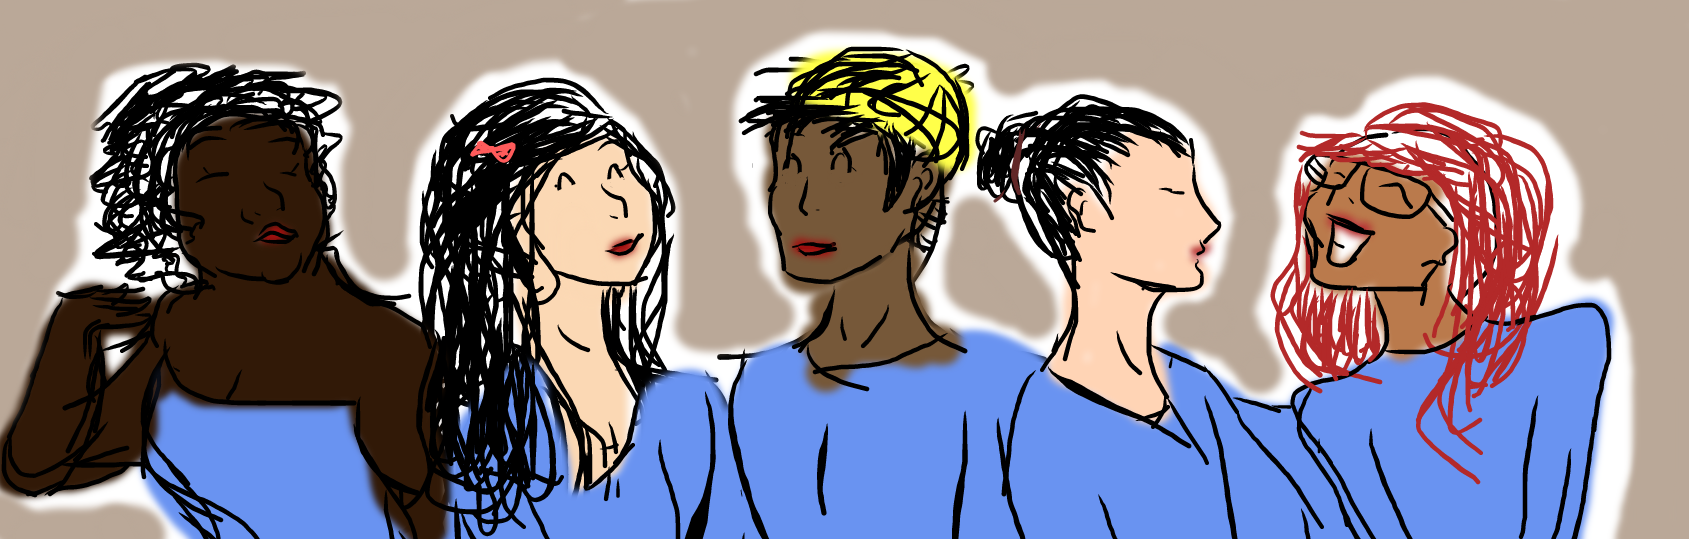
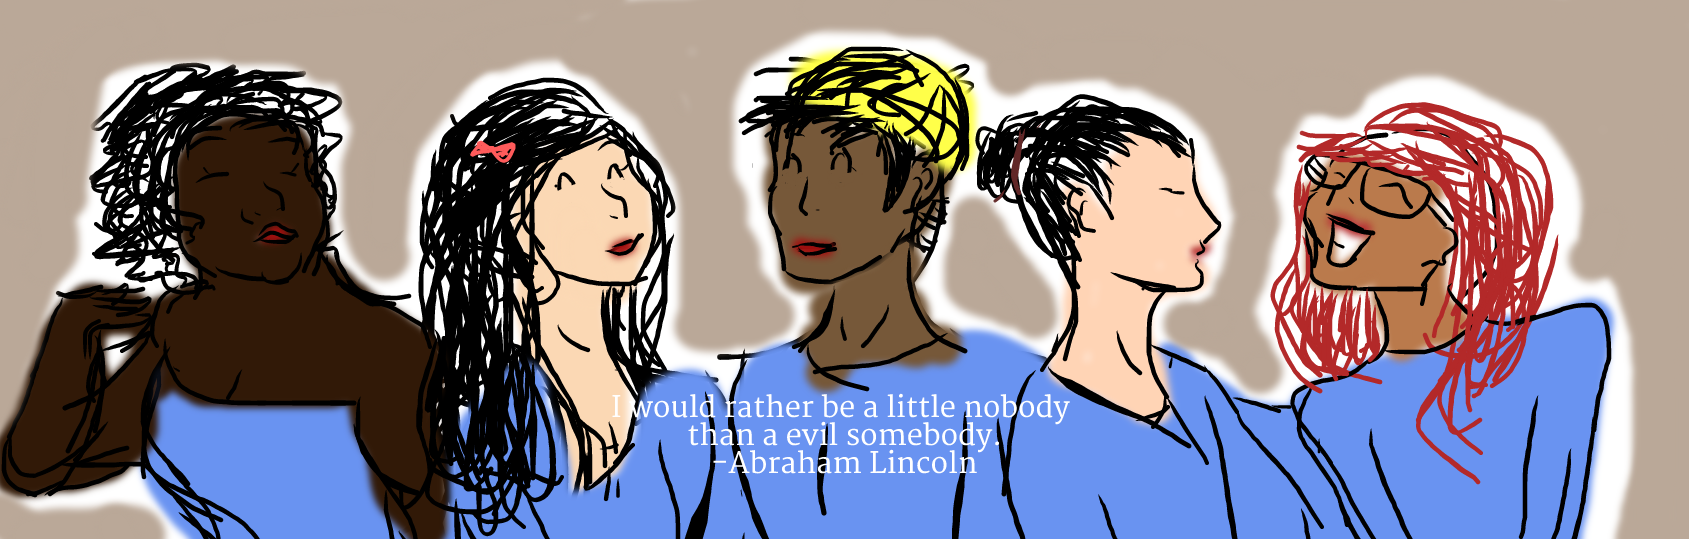
commiting no words

Changed region(s): [[0.3694, 0.7421, 0.6465, 0.8905]]

diff --git a/index.html b/index.html
@@ -26,8 +26,7 @@
     <!-- MAIN PIC -->
     <div class="image">
       <img src="frends.png" alt="MAIN PICTURE" width="100%">
-      <h2 id="quote"></br><br><br><br><br><br><br><br><br><br>"I would rather be a little nobody <br> than to be a evil somebody"<br> - Abraham Lincoln</h2>
-    </div>
+      </div>
 
     <!-- SECTIONS -->
     <!-- <div class="menucolor">
